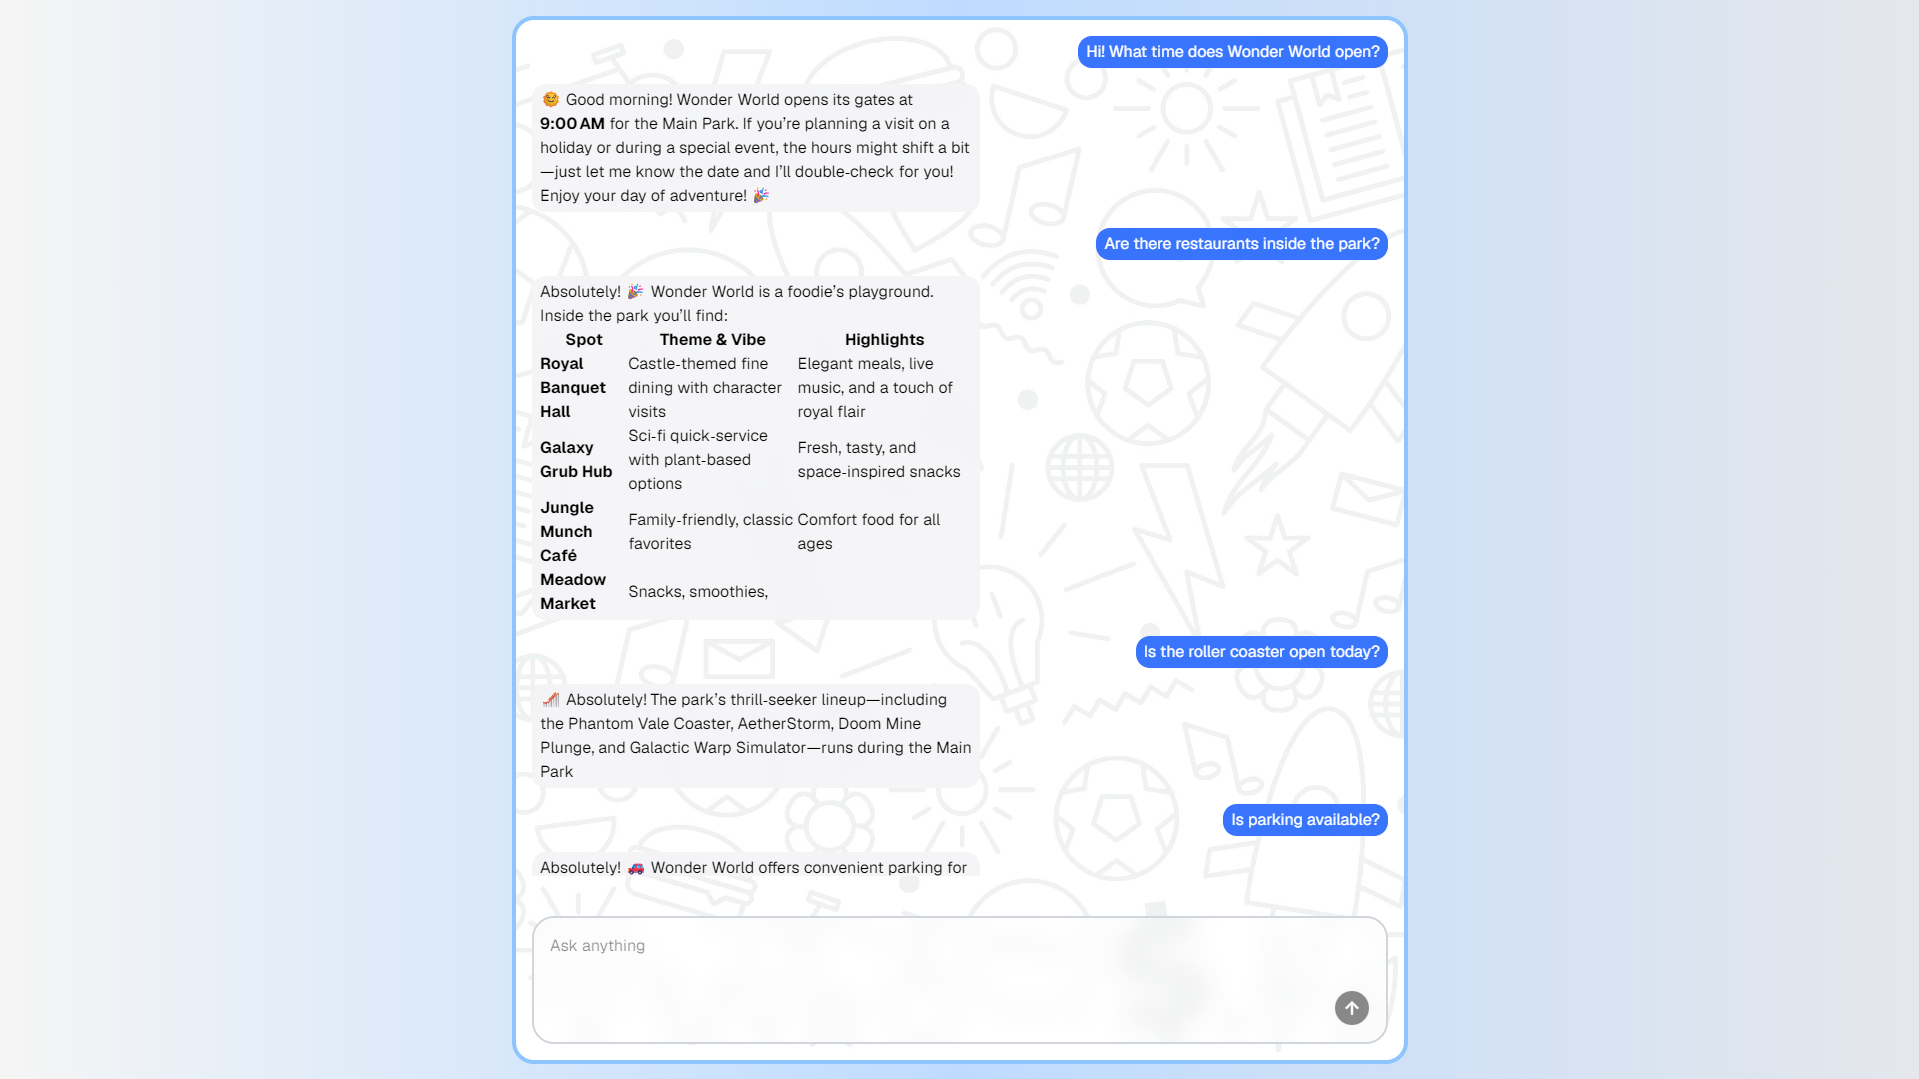
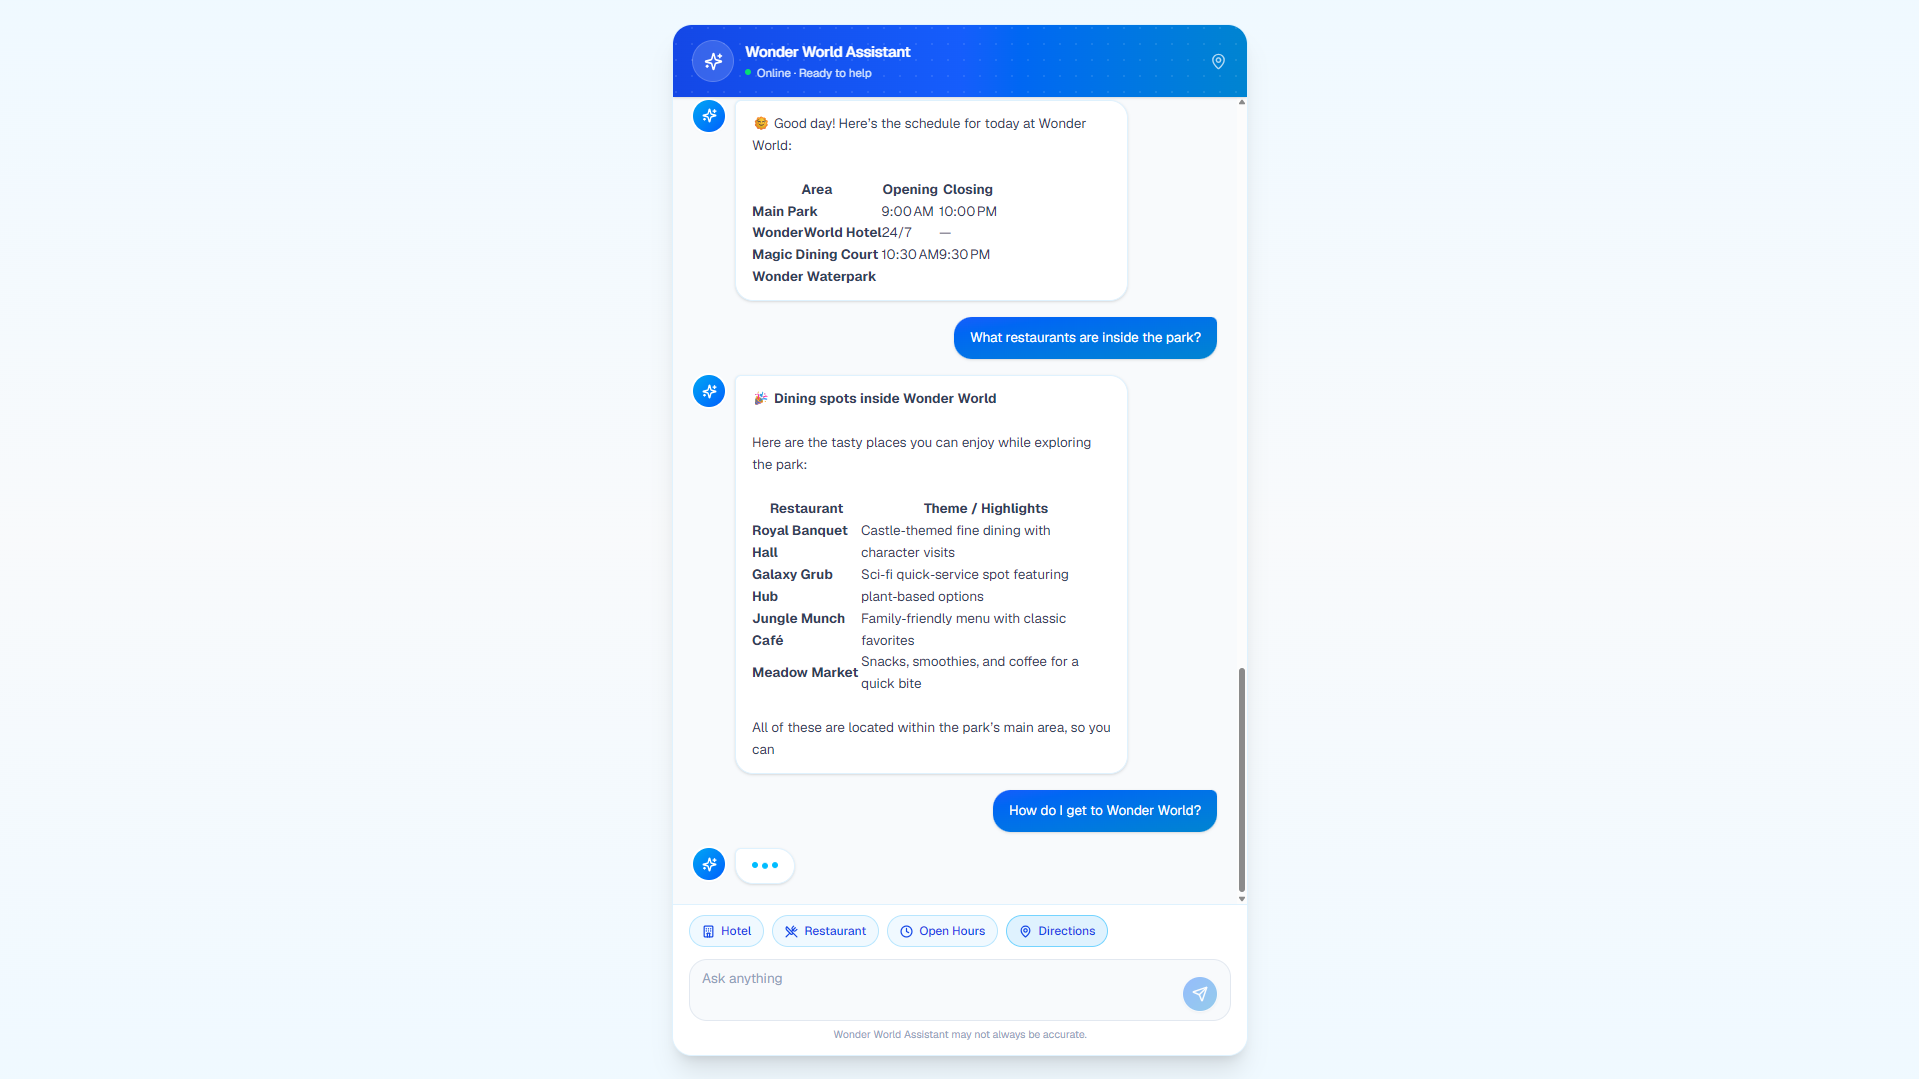
fix ui issues

Changed region(s): [[0.1845, 0.0, 0.9531, 1.0], [0.6149, 0.8869, 0.6456, 0.9481]]

diff --git a/packages/client/src/components/chat/ChatBot.tsx b/packages/client/src/components/chat/ChatBot.tsx
@@ -3,7 +3,7 @@ import popSound from '@/assets/sounds/pop.mp3';
 import { BASE_URL } from '@/config/api';
 import axios from 'axios';
 import { useRef, useState } from 'react';
-import { FaHandSparkles, FaMapPin } from 'react-icons/fa';
+import { LuSparkles, LuMapPin } from 'react-icons/lu';
 import ChatInput, { type ChatFormData } from './ChatInput';
 import type { Message } from './ChatMessages';
 import ChatMessages from './ChatMessages';
@@ -56,16 +56,13 @@ const ChatBot = () => {
    };
 
    return (
-      <div className="flex h-screen w-full items-center justify-center overflow-hidden bg-gradient-to-b from-sky-50 via-slate-50 to-sky-50 p-0 sm:p-6 font-sans">
-         <style>{`
-        @keyframes fadeIn { from { opacity: 0; transform: translateY(4px); } to { opacity: 1; transform: translateY(0); } }
-      `}</style>
-         <div className="flex h-full w-full max-w-md flex-col overflow-hidden bg-slate-50 shadow-xl sm:h-full sm:max-h-[720px] sm:rounded-[28px] sm:border sm:border-sky-100">
+      
+         <div className="flex h-full w-full max-w-xl flex-col overflow-hidden bg-slate-50 shadow-xl sm:h-full sm:max-h-full sm:rounded-[20px] sm:border sm:border-sky-100">
             {/* Header */}
             <div className="relative flex shrink-0 items-center gap-3 bg-linear-to-r from-blue-700 via-blue-600 to-sky-600 px-4 py-4 shadow-sm sm:px-5">
                <div className="absolute inset-0 opacity-10 bg-[radial-gradient(circle_at_20%_20%,white_1px,transparent_1px)] bg-size-[16px_16px]" />
                <div className="relative flex h-10 w-10 items-center justify-center rounded-full bg-white/15 ring-1 ring-white/30 backdrop-blur">
-                  <FaHandSparkles
+                  <LuSparkles
                      size={19}
                      className="text-white"
                      strokeWidth={2}
@@ -76,11 +73,11 @@ const ChatBot = () => {
                      Wonder World Assistant
                   </h1>
                   <div className="flex items-center gap-1.5 text-[11.5px] text-sky-50/90">
-                     <span className="h-1.5 w-1.5 rounded-full bg-lime-300" />
+                     <span className="h-1.5 w-1.5 rounded-full bg-green-400" />
                      Online &middot; Ready to help
                   </div>
                </div>
-               <FaMapPin
+               <LuMapPin
                   size={17}
                   className="relative shrink-0 text-white/70"
                />
@@ -95,7 +92,7 @@ const ChatBot = () => {
             {/* Input */}
             <ChatInput onSubmit={onSubmit} />
          </div>
-      </div>
+
    );
 };
 

diff --git a/packages/client/src/components/chat/QuickReplies.tsx b/packages/client/src/components/chat/QuickReplies.tsx
@@ -1,11 +1,11 @@
-import { FaClock, FaHotel, FaMapPin, FaUtensils } from 'react-icons/fa';
+import { LuClock4,LuHotel, LuMapPin, LuUtensilsCrossed } from 'react-icons/lu';
 import type { ChatFormData } from './ChatInput';
 
 const quickReplies = [
-  { label: "Hotel", icon: FaHotel, prompt: "Tell me about hotels near Wonder World" },
-  { label: "Restaurant", icon: FaUtensils, prompt: "What restaurants are inside the park?" },
-  { label: "Open Hours", icon: FaClock, prompt: "What are today's opening hours?" },
-  { label: "Directions", icon: FaMapPin, prompt: "How do I get to Wonder World?" },
+  { label: "Hotel", icon: LuHotel, prompt: "Tell me about hotels near Wonder World" },
+  { label: "Restaurant", icon: LuUtensilsCrossed, prompt: "What restaurants are inside the park?" },
+  { label: "Open Hours", icon: LuClock4, prompt: "What are today's opening hours?" },
+  { label: "Directions", icon: LuMapPin, prompt: "How do I get to Wonder World?" },
 ];
 
 type Props = {

diff --git a/packages/client/src/components/chat/ChatInput.tsx b/packages/client/src/components/chat/ChatInput.tsx
@@ -1,6 +1,6 @@
 import { useForm } from 'react-hook-form';
 import { Button } from '../ui/button';
-import { FaArrowUp } from 'react-icons/fa';
+import { LuSend } from 'react-icons/lu';
 
 export type ChatFormData = {
    prompt: string;
@@ -50,7 +50,7 @@ const ChatInput = ({ onSubmit }: Props) => {
             type="submit"
             className="flex h-9 w-9 shrink-0 items-center justify-center rounded-full bg-gradient-to-br from-blue-600 to-sky-600 text-white shadow-sm transition disabled:opacity-40 disabled:cursor-not-allowed enabled:hover:brightness-110 enabled:active:scale-95"
          >
-            <FaArrowUp size={15} strokeWidth={2.25}/>
+            <LuSend size={15} strokeWidth={2.25}/>
          </Button>
           </form>
         

diff --git a/packages/client/src/App.tsx b/packages/client/src/App.tsx
@@ -2,9 +2,12 @@ import ChatBot from './components/chat/ChatBot';
 
 function App() {
    return (
-       <main >
+      <div className="flex h-screen w-full items-center justify-center overflow-hidden bg-linear-to-b from-sky-50 via-slate-50 to-sky-50 p-0 sm:p-6 font-sans">
+         <style>{`
+        @keyframes fadeIn { from { opacity: 0; transform: translateY(4px); } to { opacity: 1; transform: translateY(0); } }
+      `}</style>
          <ChatBot />
-      </main>
+      </div>
    );
 }
 export default App;

diff --git a/packages/client/src/components/chat/Avatar.tsx b/packages/client/src/components/chat/Avatar.tsx
@@ -1,9 +1,9 @@
-import { FaHandSparkles } from "react-icons/fa";
+import { LuSparkles } from "react-icons/lu";
 
 export default function Avatar() {
   return (
     <div className="flex h-8 w-8 shrink-0 items-center justify-center rounded-full bg-linear-to-br from-sky-500 to-blue-600 text-white shadow-sm ring-2 ring-white">
-      <FaHandSparkles size={15} strokeWidth={2.25} />
+      <LuSparkles size={15} strokeWidth={2.25} />
     </div>
   );
 }
